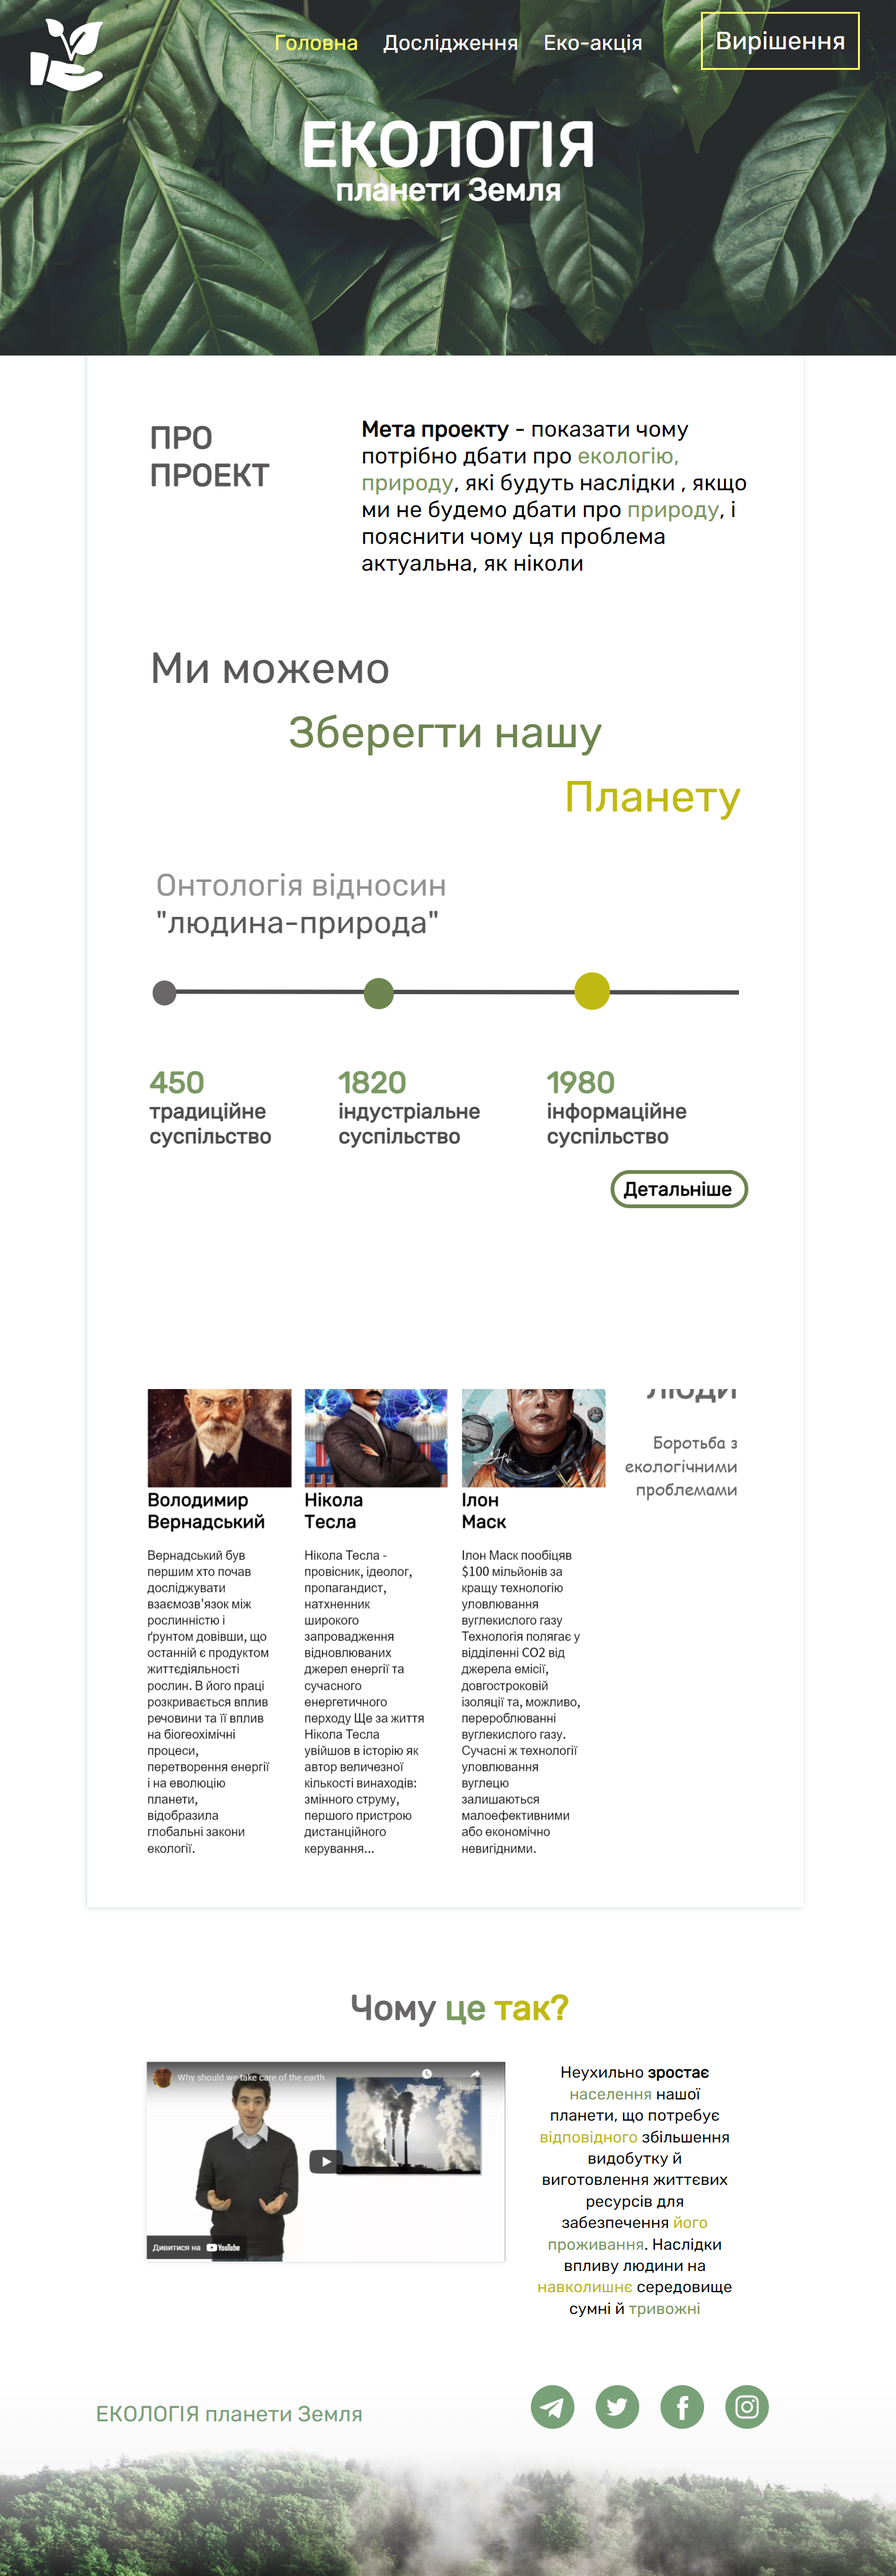
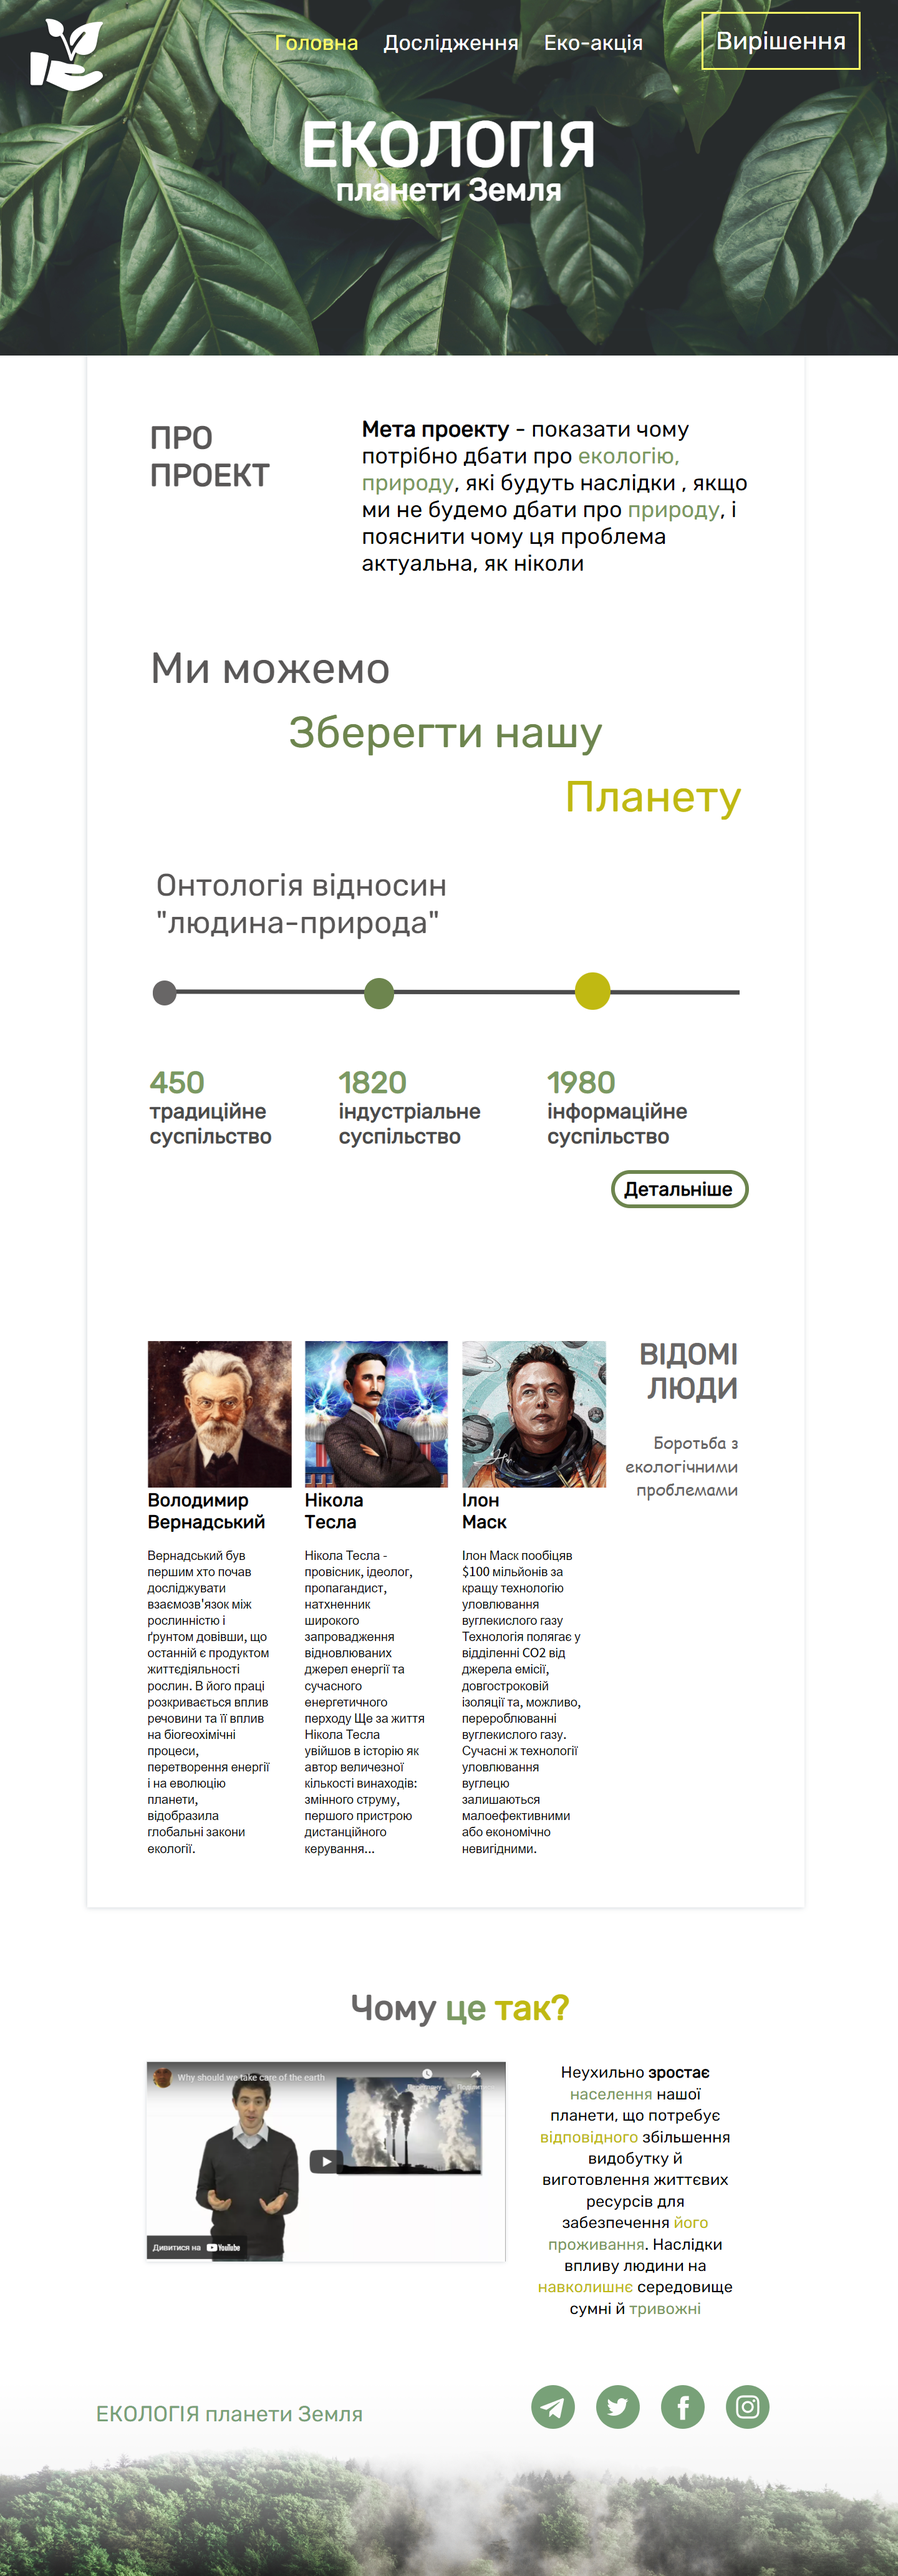
patch29.12.21

diff --git a/css/style.css b/css/style.css
@@ -1,7 +1,7 @@
 body{
     margin: 0;
     overflow-x: hidden;
-   
+    font-size: 14px;
 }
 .flex{
     display: flex;
@@ -16,14 +16,15 @@ body{
     background-color: #242424;
 }
 .side_nav_container{
-    height: 110%;
+    height: 100%;
     display: flex;
     flex-direction: column;
     justify-content: space-between;
+    align-items: space-around;
 }
 .side_nav_title{
     background-color: #181818;
-    height: 160px;
+    height: 20%;
     display: flex;
     flex-direction: column;
     justify-content: center;
@@ -44,6 +45,7 @@ body{
     display: flex;
     align-items: center;
     flex-direction: column;
+    height: 100%;
     
 }
 .side_nav_main_a a{
@@ -51,17 +53,20 @@ body{
     color: rgb(155, 155, 155);
     text-decoration: none;
     font-family: 'Open Sans', sans-serif;
-    font-size: calc(12px + 4 * (100vw / 1920));
+    font-size: 1em;
 }
 .side_nav_main_a a:hover{
     color: #08fdd8;
     transition: 0.3s;
 }
 .side_nav_main_links{
-    margin-bottom: 240px;
+    margin-bottom: 100%;
     display: flex;
-    justify-content: space-evenly;
+    justify-content: space-around;
     padding: 10px;
+}
+.side_nav_main_links img{
+    width: 15px;
 }
 .container{
     display: flex;
@@ -83,7 +88,7 @@ body{
     transition: 0.4s;
 }
 .main_title_block{
-    padding-top: 250px;
+    padding-top: 15%;
     padding-left: 80px;
 }
 .main_downtitle{
@@ -151,7 +156,7 @@ body{
 }
 .my_projects_flex img{
     opacity: 0.6;
-    width: 18.6vw;
+    width: 100%;
 }
 .my_projects_flex{
     display: flex;
@@ -181,8 +186,11 @@ body{
 .my_skills_container_right{
     padding-right: 100px;
     padding-left: 100px;
-    width: 100%;
+    width: 50%;
     margin-top: 100px;
+}
+.my_skills_container_left{
+    width: 50%;
 }
 .my_skills_container_right h3{
     color: white;
@@ -223,7 +231,7 @@ body{
     padding-left: 100px;
     font-size: 17px;
     color: white;
-    width: 700px;
+    width: 80%;;
     padding-bottom: 20px;
     font-family: 'Open Sans', sans-serif;
 }
@@ -255,7 +263,10 @@ body{
     color: #08fdd8;
 }
 .contacts_right{
-    width: 100%;
+    width: 50%;
+}
+.contacts_left{
+    width: 50%;
 }
 .contacts_map{
     width: 100%;
@@ -275,6 +286,7 @@ body{
     margin-left: 74%;
     margin-top: 20px;
     letter-spacing: 4px;
+    padding: 0px 10px;
 }
 .contacts_send_but:hover{
     background: #08fdd8;

diff --git a/index.html b/index.html
@@ -4,7 +4,7 @@
     <meta charset="UTF-8">
     <meta http-equiv="X-UA-Compatible" content="IE=edge">
     <meta name="viewport" content="width=device-width, initial-scale=1.0">
-    <title>Document</title>
+    <title>Danylo Vakhniuk</title>
     <link rel="stylesheet" href="css/style.css">
     <link rel="preconnect" href="https://fonts.googleapis.com">
     <link rel="preconnect" href="https://fonts.gstatic.com" crossorigin>
